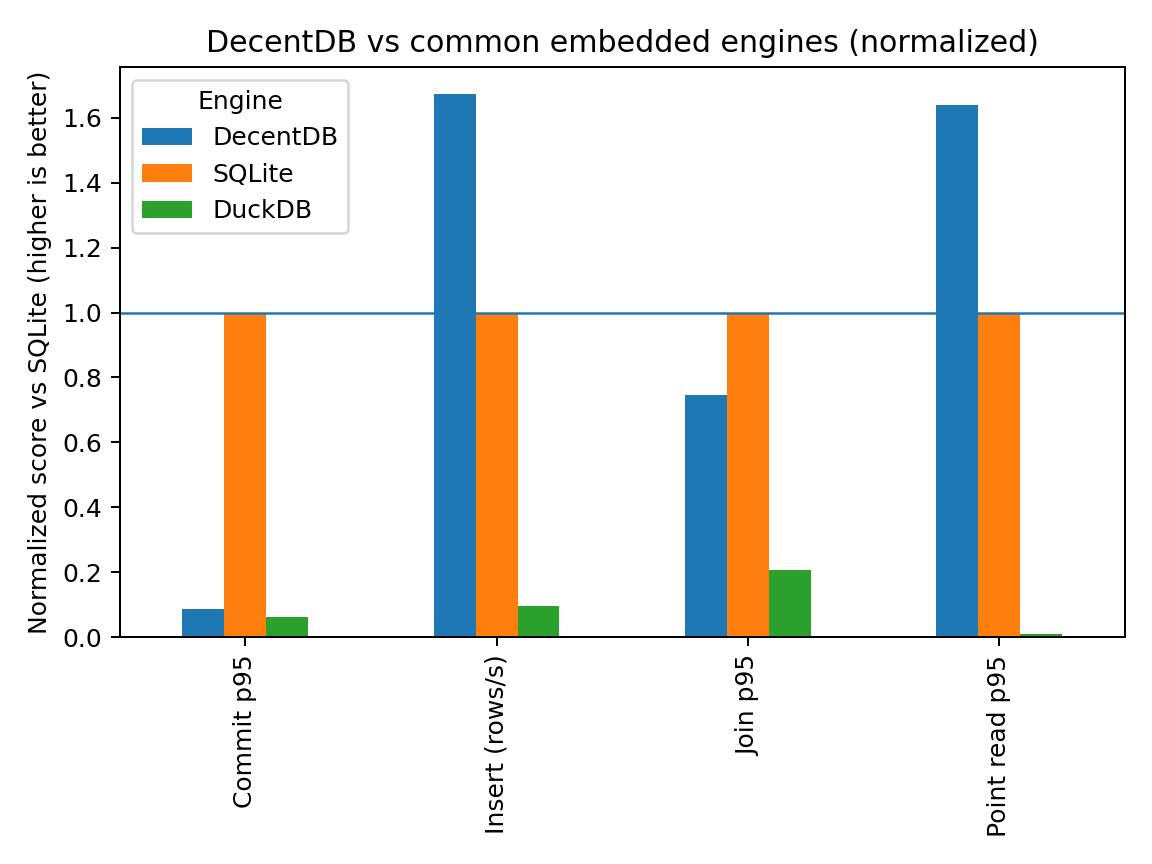
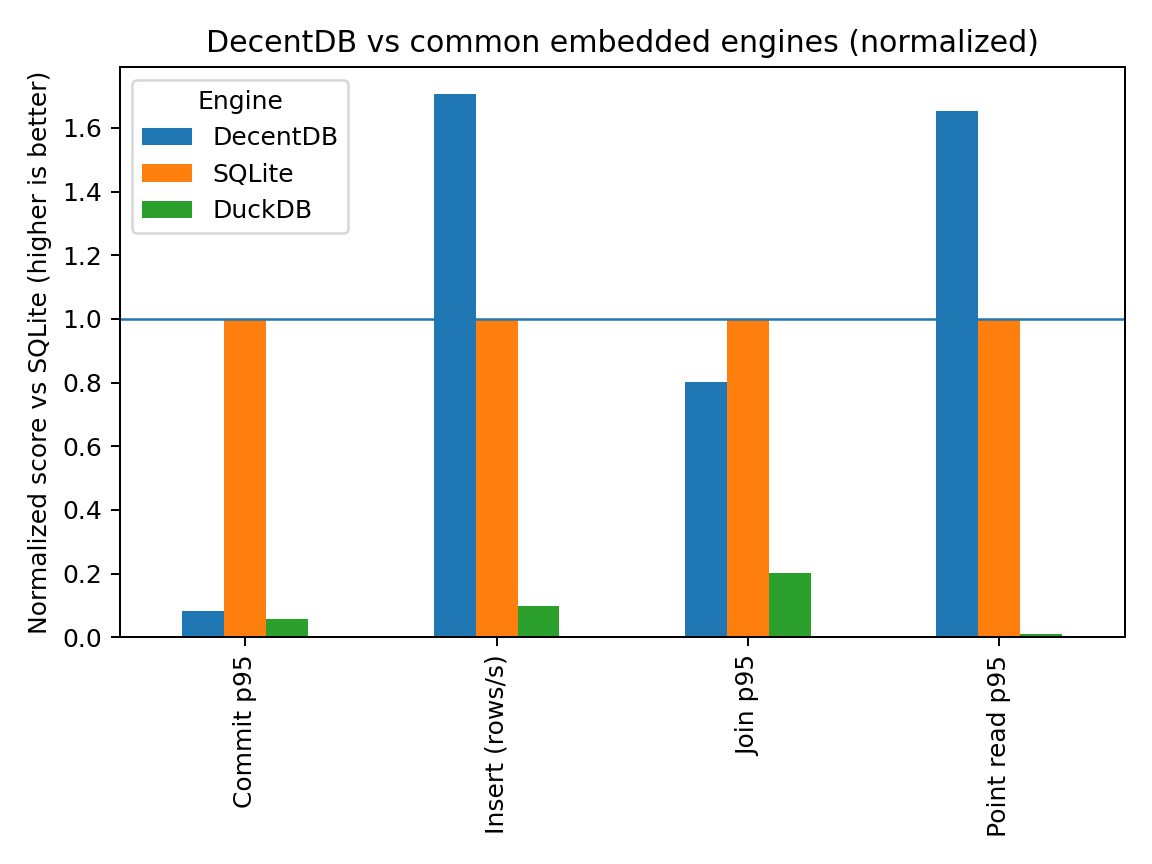
perf: direct string wal encode (bench: 0.1127165 -> 0.1111285)

diff --git a/design/SQLITE_PERF_GAP_PLAN.md b/design/SQLITE_PERF_GAP_PLAN.md
@@ -877,3 +877,19 @@ DecentDB vs SQLite (commit latency gap: **14.61×**)
 **SQLite reference (same run):** commit_p95_ms = 0.009798 → gap **11.50×**  
 **Correctness/Durability:** No changes to WAL semantics or recovery.  
 **Follow-ups:** Next low-risk item: direct string-to-frame encoding (avoid string→seq copy).
+
+### 2) Direct string-to-frame encoding (Section 2: Memory Copying and Buffer Allocation)
+**Change:** Store pending pages as strings and encode directly into WAL frames to avoid string→seq allocation.  
+**Bench (run_id: 20260205_190231)**  
+
+| Metric | Before | After | Notes |
+|---|---:|---:|---|
+| commit_p95_ms | 0.1127165 | 0.1111285 | **Improved** (~1.4%) |
+| read_p95_ms | 0.001197 | 0.0011825 | Improved |
+| join_p95_ms | 0.497524 | 0.496702 | Improved |
+| insert_rows_per_sec | 195,020.60 | 199,036.46 | Improved |
+| db_size_mb (bytes/1e6) | 0.086016 | 0.086016 | Unchanged |
+
+**SQLite reference (same run):** commit_p95_ms = 0.009117 → gap **12.19×**  
+**Correctness/Durability:** No changes to WAL semantics or recovery.  
+**Follow-ups:** Next low-risk item: release WAL lock before fsync (careful with commit window).
